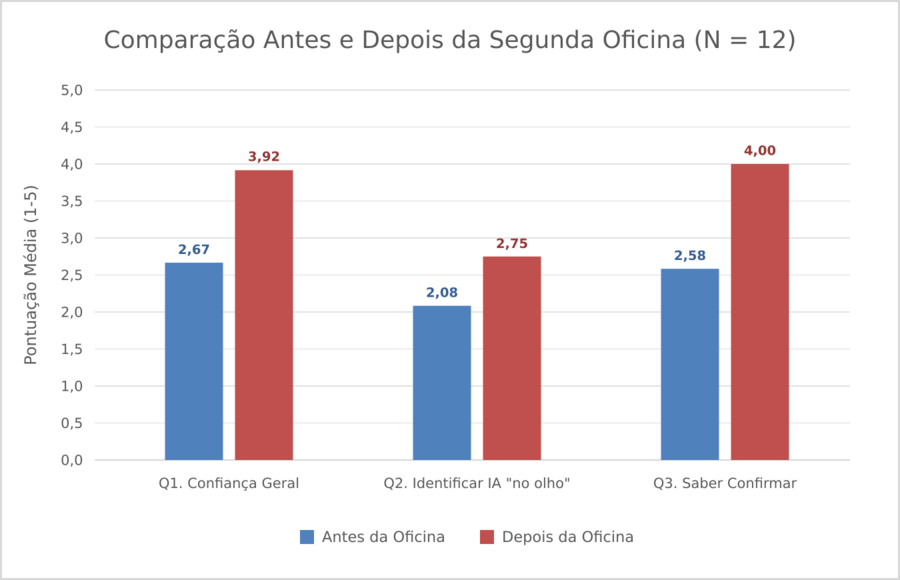
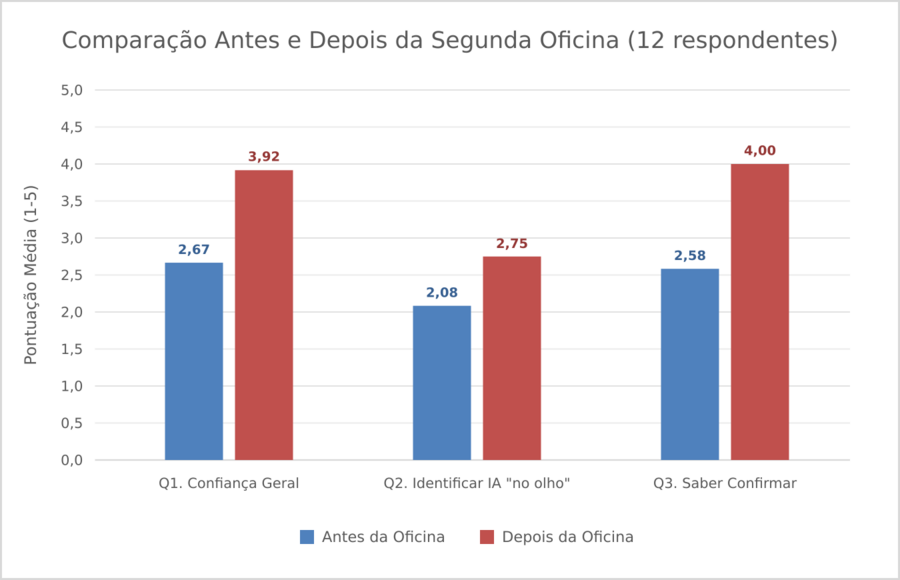
Corrige renderização da equação de Hake e contagem de presentes (13) na EF

Changed region(s): [[0.0622, 0.031, 0.9333, 0.0931]]

diff --git a/editions/2026.2/projects/pessoas-virtuais/README.md b/editions/2026.2/projects/pessoas-virtuais/README.md
@@ -14,7 +14,7 @@
 
 O projeto consiste em uma oficina presencial de educação digital voltada a pessoas idosas (60+) sobre prevenção a golpes virtuais de identidade falsificada e engenharia social, articulando Inteligência Artificial e Cibersegurança. A atividade aborda tanto golpes familiares, nos quais o golpista imita um parente próximo com apoio de áudio ou vídeo sintético (deepfake), quanto golpes corporativos, nos quais simula o atendimento de segurança de um banco ou instituição.
 
-A oficina combina contextualização de situações cotidianas, duas simulações controladas e consentidas, discussão moderada com o público, sistematização de boas práticas, avaliação antes e depois do encontro e distribuição de fascículos impressos do CERT.br. Foram realizadas duas aplicações presenciais na sala FE12 da Faculdade de Engenharia Elétrica e de Computação (FEEC) da Unicamp: a primeira em 17 de outubro de 2026, com 4 participantes, e a segunda em 21 de novembro de 2026, com 12 participantes. Um canal opcional de WhatsApp também foi disponibilizado para envio voluntário de avisos e materiais complementares, sem condicionar a participação presencial.
+A oficina combina contextualização de situações cotidianas, duas simulações controladas e consentidas, discussão moderada com o público, sistematização de boas práticas, avaliação antes e depois do encontro e distribuição de fascículos impressos do CERT.br. Foram realizadas duas aplicações presenciais na sala FE12 da Faculdade de Engenharia Elétrica e de Computação (FEEC) da Unicamp: a primeira em 17 de outubro de 2026, com 4 participantes, e a segunda em 21 de novembro de 2026, com 13 participantes. Um canal opcional de WhatsApp também foi disponibilizado para envio voluntário de avisos e materiais complementares, sem condicionar a participação presencial.
 
 ## Problema e Contexto
 
@@ -104,7 +104,11 @@ A avaliação da atividade combina **instrumento estruturado pareado** (aplicado
 ### Critérios de Interpretação
 
 - **Separação entre percepção subjetiva e desempenho prático:** os itens `Q1` a `Q3` medem percepção subjetiva de confiança e clareza em escala de 1 a 5, ao passo que `Q4` a `Q6` verificam a decisão diante de situações concretas e `Q7` e `Q8` medem a utilidade percebida das dinâmicas. Satisfação ou ganho de confiança não são tratados isoladamente como prova automática de aprendizagem.
-- **Ganho normalizado sobre médias subjetivas:** nos itens de escala Likert (`Q1` a `Q3`), calcula-se complementarmente o ganho normalizado de Hake adaptado ao teto 5, $g = (\bar{x}_{\text{depois}} - \bar{x}_{\text{antes}}) / (5 - \bar{x}_{\text{antes}})$, como medida descritiva da fração do avanço possível obtida pela turma.
+- **Ganho normalizado sobre médias subjetivas:** nos itens de escala Likert (`Q1` a `Q3`), calcula-se complementarmente o ganho normalizado de Hake (`g`) adaptado ao teto de 5 pontos como medida descritiva da fração do avanço possível obtida pelos respondentes.
+
+$$
+g = \frac{\bar{x}_{\text{depois}} - \bar{x}_{\text{antes}}}{5 - \bar{x}_{\text{antes}}}
+$$
 
 ## Riscos e Desafios
 
@@ -157,62 +161,62 @@ Na primeira aplicação, apenas a imagem consolidada do gráfico foi preservada 
 - **Data:** 21 de novembro de 2026 (sábado).
 - **Local e contexto:** sala FE12 da FEEC na Unicamp, divulgada para o horário das 10h00 às 11h30.
 - **Público atendido:** pessoas idosas (60+) da comunidade externa e de grupos de convivência mobilizados pela equipe e por participantes da edição anterior.
-- **Número de participantes:** 12 participantes presentes, todos respondentes válidos da avaliação pré e pós-oficina (`N = 12`).
+- **Número de participantes:** 13 participantes presentes, dos quais 12 responderam aos formulários pré e pós-oficina (`n = 12` respondentes válidos, pois uma pessoa não preencheu o formulário).
 - **Duração efetiva:** conduzida dentro da janela matutina planejada de 90 minutos (10h00 às 11h30), sem cronometragem individualizada por etapa registrada em planilha.
 
 ### Relato da Segunda Aplicação e Ajustes Realizados
 
-Para a segunda oferta, a divulgação foi reforçada com antecedência por meio de cartaz próprio voltado ao público 60+ ([`materiais/cartaz-divulgacao-segunda-oficina.jpg`](materiais/cartaz-divulgacao-segunda-oficina.jpg)), compartilhado em comunidades ativas, paróquias e redes de participantes da primeira turma. O comparecimento triplicou em relação à primeira aplicação, alcançando 12 idosos presentes e reserva regularizada sem intercorrências na sala FE12.
+Para a segunda oferta, a divulgação foi reforçada com antecedência por meio de cartaz próprio voltado ao público 60+ ([`materiais/cartaz-divulgacao-segunda-oficina.jpg`](materiais/cartaz-divulgacao-segunda-oficina.jpg)), compartilhado em comunidades ativas, paróquias e redes de participantes da primeira turma. O comparecimento mais que triplicou em relação à primeira aplicação, alcançando 13 idosos presentes e reserva regularizada sem intercorrências na sala FE12.
 
 Na condução pedagógica, todos os integrantes da equipe atuaram presencialmente no acolhimento, operação técnica, mediação e aplicação dos instrumentos. Os principais ajustes planejados na E4 foram efetivamente executados:
 
 - **Substituição do vídeo bancário por capturas sequenciais:** a conversa com o fictício *Banco Aurora* foi projetada passo a passo nos slides, permitindo pausar a cada mensagem para que os participantes levantassem a mão, apontassem a estratégia de falsa autoridade e decidissem como agir antes de revelar a tela seguinte.
 - **Demonstração de deepfake e discussão sobre redes sociais e biometria:** a demonstração de falsificação por IA foi exibida no projetor e articulada aos casos cotidianos levantados no início da oficina, reforçando a orientação de não realizar biometria facial por links externos e de confirmar pedidos urgentes por outro canal.
-- **Aplicação estruturada dos formulários impressos e entrega de fascículos:** os questionários inicial e final foram preenchidos em papel nas mesas com apoio da equipe antes da dispersão, garantindo 100% de respostas pareadas (`12 de 12`). No encerramento, cada participante recebeu exemplares impressos dos fascículos *Golpes: Não se Deixe Enganar* e *Golpes: Caiu? Veja o que Fazer*, do CERT.br. Não foi mantida planilha formal de contagem das sobras de fascículos, registrando-se a entrega efetiva aos 12 presentes pelas evidências fotográficas autorizadas abaixo.
+- **Aplicação estruturada dos formulários impressos e entrega de fascículos:** os questionários inicial e final foram preenchidos em papel nas mesas com apoio da equipe antes da dispersão, obtendo 12 respostas pareadas válidas entre os 13 presentes (`12 de 13`, correspondendo a 92,3% de adesão, pois uma pessoa não preencheu o formulário). No encerramento, os participantes receberam exemplares impressos dos fascículos *Golpes: Não se Deixe Enganar* e *Golpes: Caiu? Veja o que Fazer*, do CERT.br. Não foi mantida planilha formal de contagem das sobras de fascículos, registrando-se a entrega efetiva em sala pelas evidências fotográficas autorizadas abaixo.
 
 | Dinâmica corporativa em capturas sequenciais | Demonstração projetada de deepfake |
 | :---: | :---: |
 | ![Participantes acompanhando e levantando a mão durante a análise das capturas do Banco Aurora](evidencias/segunda-oficina-dinamica-banco-miniatura.jpg)<br>[Ver foto em alta resolução](evidencias/segunda-oficina-dinamica-banco.jpg) | ![Exibição da demonstração de deepfake no projetor para a turma da segunda oficina](evidencias/segunda-oficina-deepfake-demonstracao-miniatura.jpg)<br>[Ver imagem em alta resolução](evidencias/segunda-oficina-deepfake-demonstracao.jpg) |
 
-| Entrega dos fascículos educativos do CERT.br | Turma de 12 participantes e equipe completa |
+| Entrega dos fascículos educativos do CERT.br | Turma da segunda aplicação e equipe completa |
 | :---: | :---: |
-| ![Participantes exibindo os fascículos do CERT.br recebidos ao final da segunda oficina](evidencias/segunda-oficina-entrega-fasciculos-miniatura.jpg)<br>[Ver foto em alta resolução](evidencias/segunda-oficina-entrega-fasciculos.jpg) | ![Foto oficial reunindo os cinco integrantes da equipe e os doze participantes da segunda aplicação](evidencias/segunda-oficina-turma-equipe-miniatura.jpg)<br>[Ver foto em alta resolução](evidencias/segunda-oficina-turma-equipe.jpg) |
+| ![Participantes exibindo os fascículos do CERT.br recebidos ao final da segunda oficina](evidencias/segunda-oficina-entrega-fasciculos-miniatura.jpg)<br>[Ver foto em alta resolução](evidencias/segunda-oficina-entrega-fasciculos.jpg) | ![Foto oficial reunindo os cinco integrantes da equipe e participantes da segunda aplicação](evidencias/segunda-oficina-turma-equipe-miniatura.jpg)<br>[Ver foto em alta resolução](evidencias/segunda-oficina-turma-equipe.jpg) |
 
 - **Vídeo compilado da segunda aplicação (58s):** [Assistir ao registro audiovisual no Google Drive](https://drive.google.com/file/d/1dfRIyruGuDMVsfsDrk-zI-Y1a7dlsvIa/view?usp=sharing) (reúne trechos da contextualização, da simulação do Banco Aurora, do preenchimento dos formulários impressos, da entrega dos fascículos e da demonstração de deepfake em sala).
 
 ### Caracterização dos Participantes
 
-Os números de presença foram obtidos por contagem direta em sala e confirmados nos registros fotográficos, enquanto o número de respondentes decorre das folhas codificadas (`P1` a `P12`) consolidadas na planilha da segunda aplicação. Não foram coletados dados demográficos individuais sensíveis nos formulários, mantendo-se a caracterização agregada do público atendido.
+Os números de presença foram informados pela equipe a partir da contagem em sala na segunda aplicação, enquanto o número de respondentes decorre das folhas codificadas (`P1` a `P12`) consolidadas na planilha. Não foram coletados dados demográficos individuais sensíveis nos formulários, mantendo-se a caracterização agregada do público atendido.
 
 | Informação | Primeira aplicação (17/10/2026) | Segunda aplicação (21/11/2026) |
 | --- | ---: | ---: |
 | Inscritos ou confirmados previamente | 10 previstos pela equipe | Inscrição prévia divulgada, total bruto de inscritos não arquivado no repositório |
-| Participantes presentes em sala | 4 | 12 |
-| Respostas válidas pareadas na avaliação (pré e pós) | Gráfico agregado disponível, total individual não arquivado | 12 de 12 presentes (100%) |
+| Participantes presentes em sala | 4 | 13 |
+| Respostas válidas pareadas na avaliação (pré e pós) | Gráfico agregado disponível, total individual não arquivado | 12 de 13 presentes (92,3%) |
 | Perfil etário do público | Pessoas idosas (60+) | Pessoas idosas (60+) |
 | Contexto de mobilização | Convite inicial e contatos próximos da equipe | Divulgação ampliada em grupos 60+, paróquia, comunidades ativas e indicação de ex-participantes |
 
-Na segunda oficina, todos os 12 participantes presentes responderam integralmente aos itens pré e pós-oficina. Dessa forma, as médias e proporções apresentadas a seguir representam a totalidade da turma atendida naquele encontro (`N = 12`), sem perda amostral entre o início e o encerramento.
+Participaram 13 pessoas da segunda oficina, das quais 12 responderam aos questionários inicial e final (uma pessoa não preencheu o formulário). Portanto, as médias, proporções e ganhos apresentados a seguir referem-se aos 12 respondentes válidos (`n = 12`), sem generalizar os resultados quantitativos para quem não respondeu.
 
 ### Evidências e Resultados da Avaliação
 
 Os dados completos anonimizados (`P1` a `P12`) estão disponíveis para consulta direta em [`evidencias/metricas-segunda-oficina.csv`](evidencias/metricas-segunda-oficina.csv) e na planilha [`evidencias/metricas-segunda-oficina.xlsx`](evidencias/metricas-segunda-oficina.xlsx).
 
-![Comparação das pontuações médias antes e depois da segunda oficina nos itens Q1, Q2 e Q3 para os 12 participantes](evidencias/comparacao-antes-depois-segunda-oficina.png)
+![Comparação das pontuações médias antes e depois da segunda oficina nos itens Q1, Q2 e Q3 para os 12 respondentes](evidencias/comparacao-antes-depois-segunda-oficina.png)
 
 A síntese dos resultados observados frente aos objetivos do projeto é apresentada nos dois quadros abaixo.
 
-| Objetivo ou aspecto avaliado | Instrumento ou evidência | Resultado observado na segunda aplicação (`N = 12`) | Limitação da evidência |
+| Objetivo ou aspecto avaliado | Instrumento ou evidência | Resultado observado na segunda aplicação (`12` respondentes de `13` presentes) | Limitação da evidência |
 | --- | --- | --- | --- |
-| Confiança geral diante de tentativas de golpe (`Q1`) | Escala Likert de 1 a 5 (pré e pós-oficina) | Média subiu de **2,67** (`DP = 0,65`) para **3,92** (`DP = 0,51`), com avanço em 10 dos 12 participantes e manutenção nos outros 2 (`P6` em 3 e `P1` de 3 para 4) | Mede percepção subjetiva imediata, sem acompanhamento longitudinal após a oficina |
-| Percepção sobre identificar IA apenas "no olho" (`Q2`) | Escala Likert de 1 a 5 (pré e pós-oficina) | Média passou de **2,08** (`DP = 0,90`) para **2,75** (`DP = 0,62`). Onze participantes convergiram para notas moderadas (`2` ou `3`) e `P10` reduziu sua nota de `4` para `1` após ver o deepfake | Item ambíguo se lido isoladamente, pois notas moderadas ou baixas refletem cautela realista diante do realismo da IA |
+| Confiança geral diante de tentativas de golpe (`Q1`) | Escala Likert de 1 a 5 (pré e pós-oficina) | Média subiu de **2,67** (`DP = 0,65`) para **3,92** (`DP = 0,51`), com avanço em 10 dos 12 respondentes e manutenção nos outros 2 (`P6` em 3 e `P1` de 3 para 4) | Mede percepção subjetiva imediata dos 12 respondentes, sem acompanhamento longitudinal após a oficina |
+| Percepção sobre identificar IA apenas "no olho" (`Q2`) | Escala Likert de 1 a 5 (pré e pós-oficina) | Média passou de **2,08** (`DP = 0,90`) para **2,75** (`DP = 0,62`). Onze respondentes convergiram para notas moderadas (`2` ou `3`) e `P10` reduziu sua nota de `4` para `1` após ver o deepfake | Item ambíguo se lido isoladamente, pois notas moderadas ou baixas refletem cautela realista diante do realismo da IA |
 | Clareza sobre como confirmar pedidos por outro canal (`Q3`) | Escala Likert de 1 a 5 (pré e pós-oficina) | Maior evolução do instrumento: média subiu de **2,58** (`DP = 0,90`) para **4,00** (`DP = 0,43`), com 11 dos 12 respondentes atingindo nota `4` ou `5` no pós-oficina | Permanece uma medida autodeclarada de saber agir |
 | Decisão segura em cenários práticos (`Q4`, `Q5` e `Q6`) | Três questões de múltipla escolha (opções 1 a 3, gabarito = 3) antes e depois | `Q4` (WhatsApp) subiu de **11/12** (`91,7%`) para **12/12** (`100%`). `Q5` (falso banco) e `Q6` (boleto/link) mantiveram **12/12** (`100%`) nos dois momentos. Escore prático médio passou de **2,92/3** para **3,00/3** | Forte efeito teto já no pré-teste, indicando que as alternativas incorretas eram facilmente descartáveis pelo grupo |
-| Utilidade percebida das dinâmicas (`Q7` e `Q8`) e engajamento | Escala Likert de 1 a 5 no pós-oficina e observação em sala | Média de **4,17** (`DP = 0,58`, 11 de 12 notas entre `4` e `5`) para a dinâmica de IA (`Q7`) e **4,25** (`DP = 0,45`, 12 de 12 notas entre `4` e `5`) para a simulação do falso banco (`Q8`) | Avalia recepção e clareza pedagógica percebida, não retenção de longo prazo |
+| Utilidade percebida das dinâmicas (`Q7` e `Q8`) e engajamento | Escala Likert de 1 a 5 no pós-oficina e observação em sala | Média de **4,17** (`DP = 0,58`, 11 de 12 notas entre `4` e `5`) para a dinâmica de IA (`Q7`) e **4,25** (`DP = 0,45`, 12 de 12 notas entre `4` e `5`) para a simulação do falso banco (`Q8`) | Avalia recepção e clareza pedagógica percebida entre os 12 respondentes, não retenção de longo prazo |
 
 #### Comparação Quantitativa Antes e Depois (Segunda Aplicação)
 
-| Indicador | Antes da oficina (`N = 12`) | Depois da oficina (`N = 12`) | Diferença absoluta | Ganho normalizado de Hake ($g$) | Respostas pareadas |
+| Indicador | Antes da oficina (`n = 12`) | Depois da oficina (`n = 12`) | Diferença absoluta | Ganho normalizado de Hake (`g`) | Respostas pareadas |
 | --- | ---: | ---: | ---: | ---: | ---: |
 | `Q1.` Confiança geral (escala 1 a 5) | 2,67 (`DP = 0,65`) | 3,92 (`DP = 0,51`) | +1,25 | 0,54 (53,6% do avanço possível) | 12 |
 | `Q2.` Identificar IA "no olho" (escala 1 a 5) | 2,08 (`DP = 0,90`) | 2,75 (`DP = 0,62`) | +0,67 | 0,23 (22,9% do avanço possível) | 12 |
@@ -222,26 +226,26 @@ A síntese dos resultados observados frente aos objetivos do projeto é apresent
 | `Q6.` Acerto no cenário Boleto ou Link | 12 de 12 (100,0%) | 12 de 12 (100,0%) | 0,0 p.p. | Já no teto inicial | 12 |
 | Escore prático global (0 a 3 pontos) | 2,92 (`DP = 0,29`) | 3,00 (`DP = 0,00`) | +0,08 | Atingiu o teto (1,00) | 12 |
 
-O contraste entre `Q2` (`g = 0,23`, média final `2,75`) e `Q3` (`g = 0,59`, média final `4,00` e menor dispersão `DP = 0,43`) é coerente com o desenho pedagógico da oficina: tanto no gráfico da primeira aplicação quanto nos dados completos da segunda, os participantes saíram menos propensos a acreditar que conseguiriam detectar sozinhos qualquer falsificação de IA apenas pela aparência, mas substancialmente mais seguros quanto ao procedimento prático de parar e confirmar o pedido por outro canal.
+O contraste entre `Q2` (`g = 0,23`, média final `2,75`) e `Q3` (`g = 0,59`, média final `4,00` e menor dispersão `DP = 0,43`) é coerente com o desenho pedagógico da oficina: tanto no gráfico da primeira aplicação quanto nos dados completos da segunda, os respondentes saíram menos propensos a acreditar que conseguiriam detectar sozinhos qualquer falsificação de IA apenas pela aparência, mas substancialmente mais seguros quanto ao procedimento prático de parar e confirmar o pedido por outro canal.
 
 ## Análise Comparativa das Duas Aplicações
 
 | Aspecto analisado | Primeira aplicação (17/10/2026) | Mudança implementada | Segunda aplicação (21/11/2026) | O que é possível concluir |
 | --- | --- | --- | --- | --- |
-| Mobilização e alcance de público | 4 presentes diante de 10 previstos | Cartaz dedicado ao público 60+ e divulgação ativa em paróquia, grupos comunitários e rede dos primeiros participantes | 12 participantes presentes (aumento de 3 vezes) | A ampliação de canais comunitários elevou concretamente o alcance, embora a ausência do total bruto de inscritos impeça calcular a taxa de conversão |
+| Mobilização e alcance de público | 4 presentes diante de 10 previstos | Cartaz dedicado ao público 60+ e divulgação ativa em paróquia, grupos comunitários e rede dos primeiros participantes | 13 participantes presentes (mais que o triplo da primeira turma) | A ampliação de canais comunitários elevou concretamente o alcance, embora a ausência do total bruto de inscritos impeça calcular a taxa de conversão |
 | Reserva e preparação logística | Contratempo inicial com a reserva da sala FE12 | Reconfirmação prévia da sala FE12 e organização antecipada da equipe | Sala utilizada sem intercorrências no horário divulgado (10h00 às 11h30) | Mudança operacional efetiva que eliminou atrasos de abertura |
 | Dinâmica do golpe corporativo | Vídeo contínuo dificultou pausar e controlar o ritmo das intervenções | Substituição por 5 capturas sequenciais do fictício Banco Aurora com avanço manual nos slides | Participação ativa com mãos levantadas em cada etapa e avaliação média de **4,25/5** (`Q8`, maior nota do pós-oficina) | Mudança implementada com alta aceitação pelo público e melhor controle visual do passo a passo |
 | Conteúdo cotidiano e biometria facial | Dúvidas espontâneas sobre Facebook, Instagram e reconhecimento facial alongaram o debate | Inclusão prévia desses temas na contextualização e no slide síntese de boas práticas | Dúvidas contempladas dentro da estrutura planejada da apresentação | Antecipar exemplos cotidianos reduziu desvios longos sem inibir perguntas pertinentes |
-| Registro e rigor da avaliação | Apenas gráfico de médias preservado, sem planilha bruta nem contagem documentada de respondentes | Aplicação impressa pareada (`P1` a `P12`) antes da entrega dos fascículos e tabulação integral em planilha | 12 de 12 respostas válidas arquivadas com dados brutos, desvios-padrão e cenários práticos | Melhoria metodológica comprovada na qualidade e auditabilidade das evidências |
-| Distribuição de materiais educativos | Entrega prevista sem registro visual específico de distribuição | Entrega de dois fascículos do CERT.br ao final com registro fotográfico autorizado | Todos os 12 participantes receberam os exemplares impressos | Cumprimento documentado da entrega ao público, restando formalizar contagem escrita de estoque em edições futuras |
+| Registro e rigor da avaliação | Apenas gráfico de médias preservado, sem planilha bruta nem contagem documentada de respondentes | Aplicação impressa pareada (`P1` a `P12`) antes da entrega dos fascículos e tabulação integral em planilha | 12 respostas válidas entre os 13 presentes (92,3%) arquivadas com dados brutos, desvios-padrão e cenários práticos | Melhoria metodológica comprovada na qualidade e auditabilidade das evidências, com uma única ausência de resposta |
+| Distribuição de materiais educativos | Entrega prevista sem registro visual específico de distribuição | Entrega de dois fascículos do CERT.br ao final com registro fotográfico autorizado | Entrega presencial dos exemplares impressos registrada em fotografia | Cumprimento documentado da entrega ao público, restando formalizar contagem escrita de estoque em edições futuras |
 
 ### Resultados, Limitações e Lições Aprendidas
 
-Considerando os objetivos propostos, há evidências consistentes de que a oficina cumpriu seu papel de sensibilização prática e fortalecimento de estratégias de verificação junto aos 16 idosos atendidos somando as duas edições (4 na primeira e 12 na segunda). A combinação entre a demonstração de deepfake (`4,17/5` em `Q7`) e a análise pausada da conversa bancária (`4,25/5` em `Q8`) mostrou-se adequada ao público 60+: desmistificou o uso de IA em golpes sem exigir vocabulário técnico e deslocou o foco da detecção visual falível (`Q2`) para a confirmação por canal independente (`Q3`, que atingiu média `4,00/5` com baixa dispersão).
+Considerando os objetivos propostos, há evidências consistentes de que a oficina cumpriu seu papel de sensibilização prática e fortalecimento de estratégias de verificação junto aos 17 idosos atendidos somando as duas edições (4 na primeira e 13 na segunda). A combinação entre a demonstração de deepfake (`4,17/5` em `Q7`) e a análise pausada da conversa bancária (`4,25/5` em `Q8`) mostrou-se adequada ao público 60+: desmistificou o uso de IA em golpes sem exigir vocabulário técnico e deslocou o foco da detecção visual falível (`Q2`) para a confirmação por canal independente (`Q3`, que atingiu média `4,00/5` com baixa dispersão).
 
 Ao mesmo tempo, a interpretação rigorosa das evidências aponta quatro limitações principais:
 
-1. **Efeito teto nas questões práticas (`Q4` a `Q6`):** como 11 de 12 participantes já acertaram `Q4` e 12 de 12 já acertaram `Q5` e `Q6` antes da segunda oficina, o teste objetivo teve baixa sensibilidade para medir ganho incremental de decisão correta, capturando apenas a correção do único erro inicial em `Q4`. Isso sugere que participantes que procuram voluntariamente uma oficina na universidade já possuem cautela básica diante de alternativas obviamente suspeitas, exigindo cenários avaliativos mais sutis.
+1. **Efeito teto nas questões práticas (`Q4` a `Q6`):** como 11 de 12 respondentes já acertaram `Q4` e 12 de 12 já acertaram `Q5` e `Q6` antes da segunda oficina, o teste objetivo teve baixa sensibilidade para medir ganho incremental de decisão correta, capturando apenas a correção do único erro inicial em `Q4`. Isso sugere que participantes que procuram voluntariamente uma oficina na universidade já possuem cautela básica diante de alternativas obviamente suspeitas, exigindo cenários avaliativos mais sutis.
 2. **Comparabilidade parcial entre as duas turmas:** a ausência dos dados brutos individuais da primeira aplicação impede comparar estatisticamente os ganhos das duas edições além da semelhança qualitativa do padrão entre `Q1`, `Q2` e `Q3`.
 3. **Registros operacionais não padronizados:** embora a segunda aplicação tenha ocorrido dentro da janela prevista e com entrega documentada de fascículos, não foram arquivadas a contagem exata de inscritos ausentes, a cronometragem minuto a minuto de cada etapa nem o balanço numérico de fascículos restantes.
 4. **Alcance restrito ao pós-imediato:** os dados refletem respostas colhidas ao término do encontro, não permitindo afirmar mudança sustentada de comportamento semanas depois nem mensurar quantos familiares receberam os fascículos em casa.
